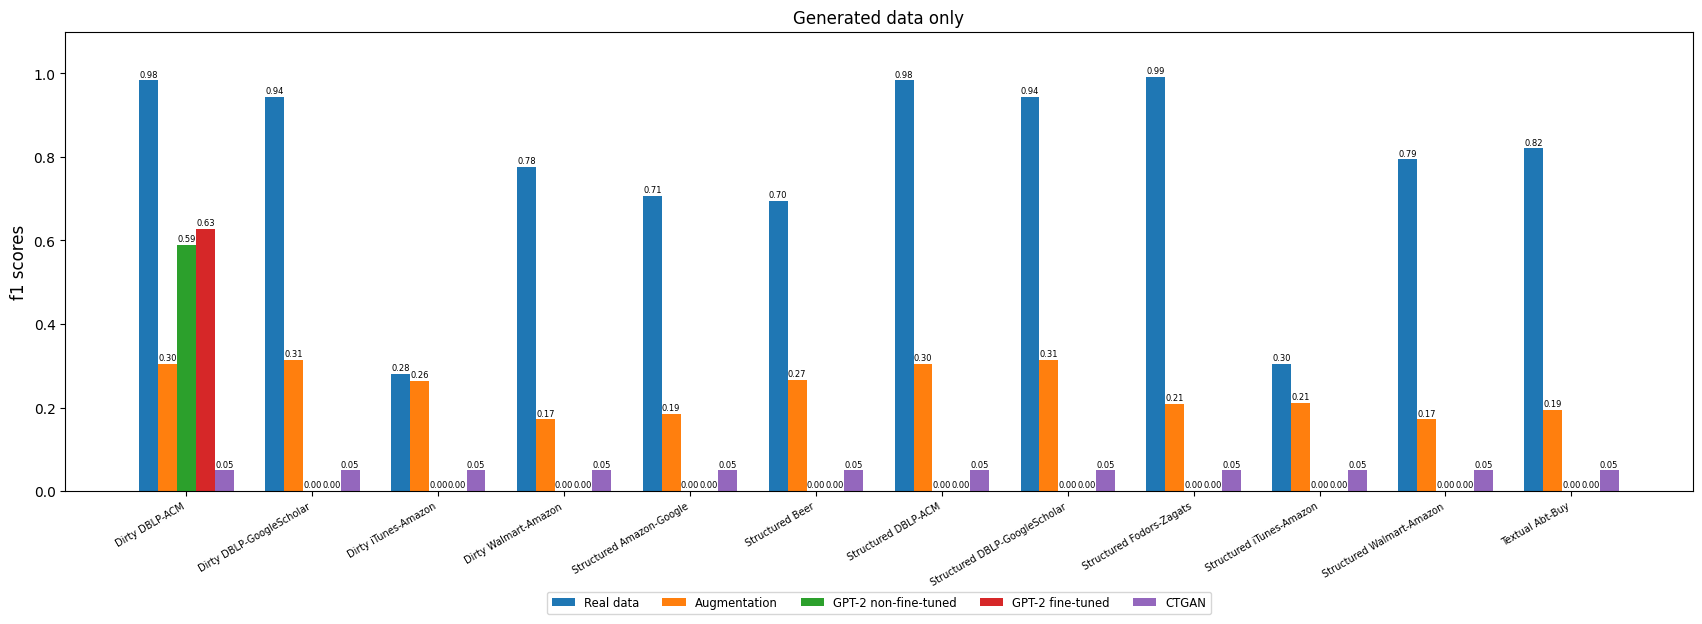
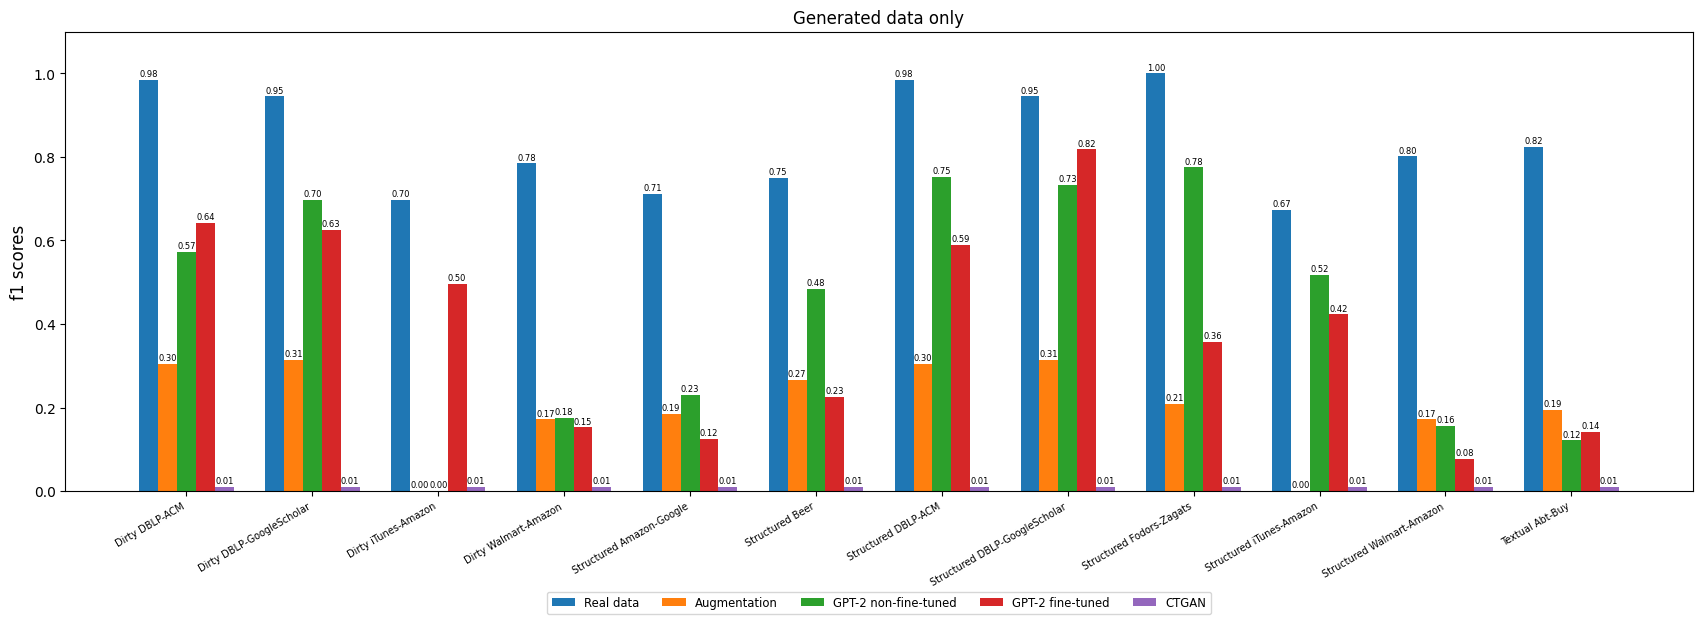
New graphs and new jobs

diff --git a/ditto/Writer_output/graph_maker.py b/ditto/Writer_output/graph_maker.py
@@ -1,3 +1,4 @@
+from cgitb import small
 from matplotlib import pyplot as plt
 import numpy as np
 import os
@@ -23,13 +24,17 @@ def get_best_average_f1(dataset):
 
 def make_plot(plot_type, title, decimated=True):
     # Setting up the arrays for the columns
-    labels = [dataset for dataset in er_magellan.keys()]        # Labels of the datasets
-    baseline = [0.05 for _ in range(len(labels))]               # 100% Real data baseline measurements
-    baseline_decimated = [0.05 for _ in range(len(labels))]     # 10% Real data baseline measurements
-    augmentation = [0.05 for _ in range(len(labels))]           # Augmentation method
-    gpt2_ft = [0.05 for _ in range(len(labels))]                # GPT-2 fine-tuned method
-    gpt2_nft = [0.05 for _ in range(len(labels))]               # GPT-2 non-fine-tuned method
-    ctgan = [0.05 for _ in range(len(labels))]                  # CTGAN method
+    labels = []
+    for dataset in er_magellan.keys():
+        if decimated: 
+            if dataset not in small_datasets: labels.append(dataset)
+        else: labels.append(dataset)
+    baseline = [0.01 for _ in range(len(labels))]               # 100% Real data baseline measurements
+    baseline_decimated = [0.01 for _ in range(len(labels))]     # 10% Real data baseline measurements
+    augmentation = [0.01 for _ in range(len(labels))]           # Augmentation method
+    gpt2_ft = [0.01 for _ in range(len(labels))]                # GPT-2 fine-tuned method
+    gpt2_nft = [0.01 for _ in range(len(labels))]               # GPT-2 non-fine-tuned method
+    ctgan = [0.01 for _ in range(len(labels))]                  # CTGAN method
     
     # For each dataset
     for i in range(len(labels)):
@@ -138,6 +143,13 @@ er_magellan = {
     "Structured_Walmart-Amazon": {},
     "Textual_Abt-Buy": {}
 }
+
+small_datasets = [
+    "Dirty_iTunes-Amazon",
+    "Structured_Beer",
+    "Structured_Fodors-Zagats",
+    "Structured_iTunes-Amazon"
+]
 
 # Gathering the information for plotting
 directory_list = list()

diff --git a/ditto/create_jobs.py b/ditto/create_jobs.py
@@ -206,7 +206,7 @@ for job in er_magellan:
         # Real + match decimated
         # Augmentaion
         task = "Augmentation_" + job.replace("/", "_") + "_real_plus_matches_decimated"
-        train = IDUN_PATH + "Augmentation/Generated/" + job + "real_plus_matches_decimated.txt"
+        train = IDUN_PATH + "Augmentation/Generated/" + job + "/real_plus_matches_decimated.txt"
         make_files(task, train, test, valid)
         
         # GPT-2
@@ -224,7 +224,7 @@ for job in er_magellan:
         # Real + non-match decimated
         # Augmentation
         task = "Augmentation_" + job.replace("/", "_") + "_real_plus_non_matches_decimated"
-        train = IDUN_PATH + "Augmentation/Generated/" + job + "_decimated/real_plus_non_matches.txt"
+        train = IDUN_PATH + "Augmentation/Generated/" + job + "/real_plus_non_matches.txt"
         make_files(task, train, test, valid)
 
         # GPT-2
@@ -242,7 +242,7 @@ for job in er_magellan:
         # Real + all decimated
         # Augmentation
         task = "Augmentation_" + job.replace("/", "_") + "_real_plus_all_decimated"
-        train = IDUN_PATH + "Augmentation/Generated/" + job + "_decimated/real_plus_all.txt"
+        train = IDUN_PATH + "Augmentation/Generated/" + job + "/real_plus_all.txt"
         make_files(task, train, test, valid)
 
         # GPT-2
